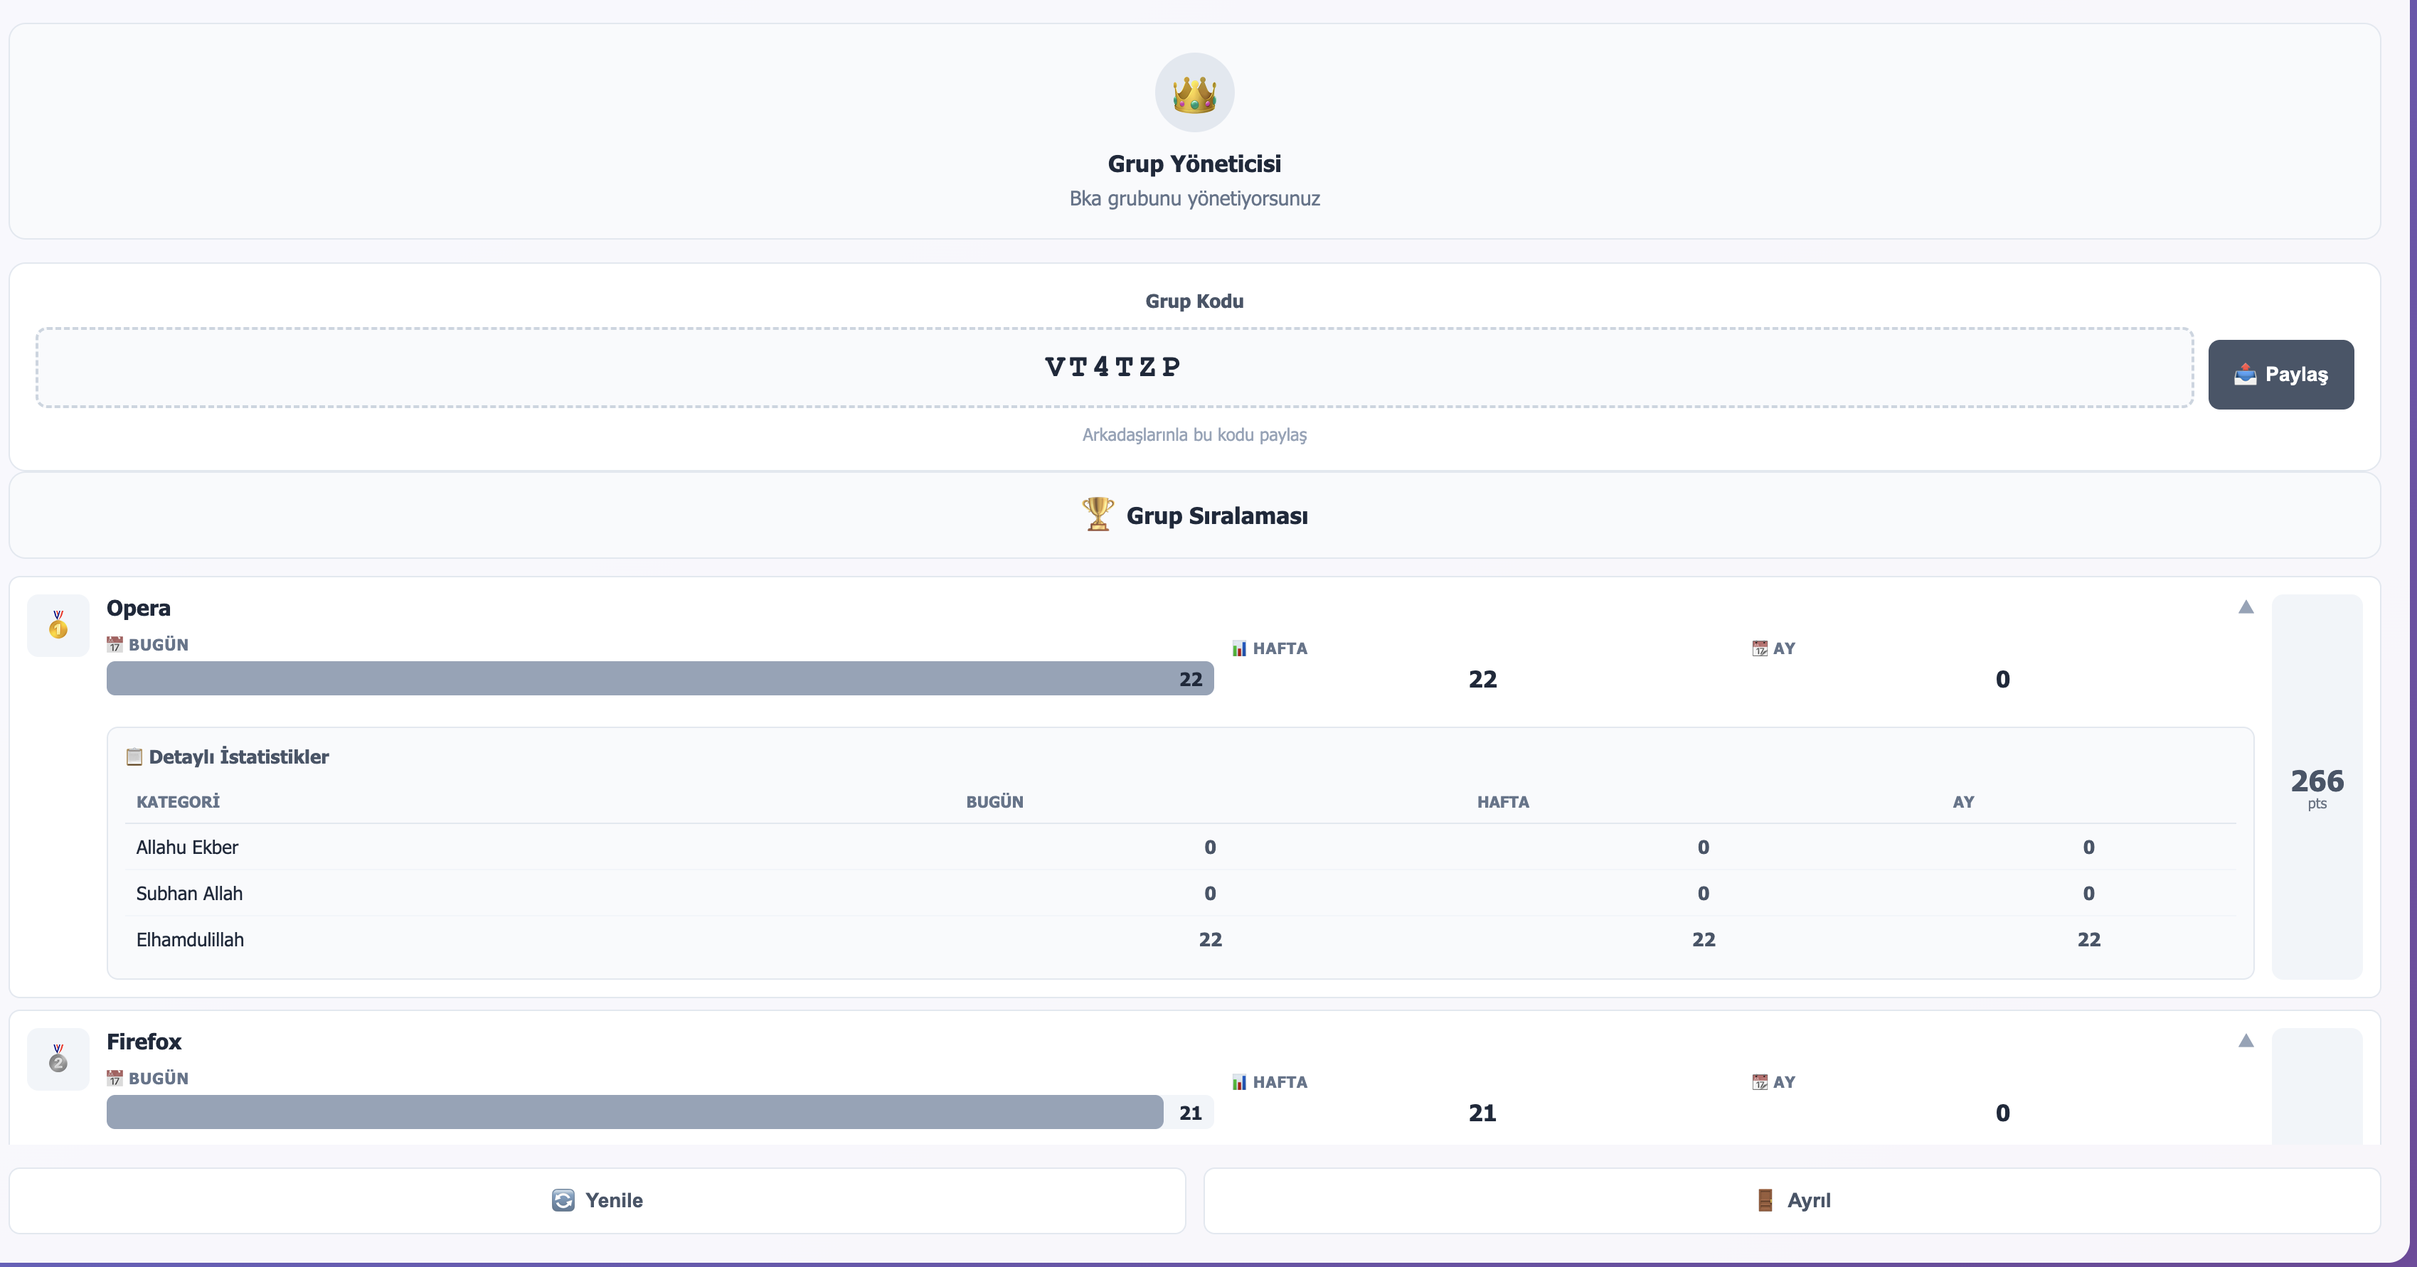
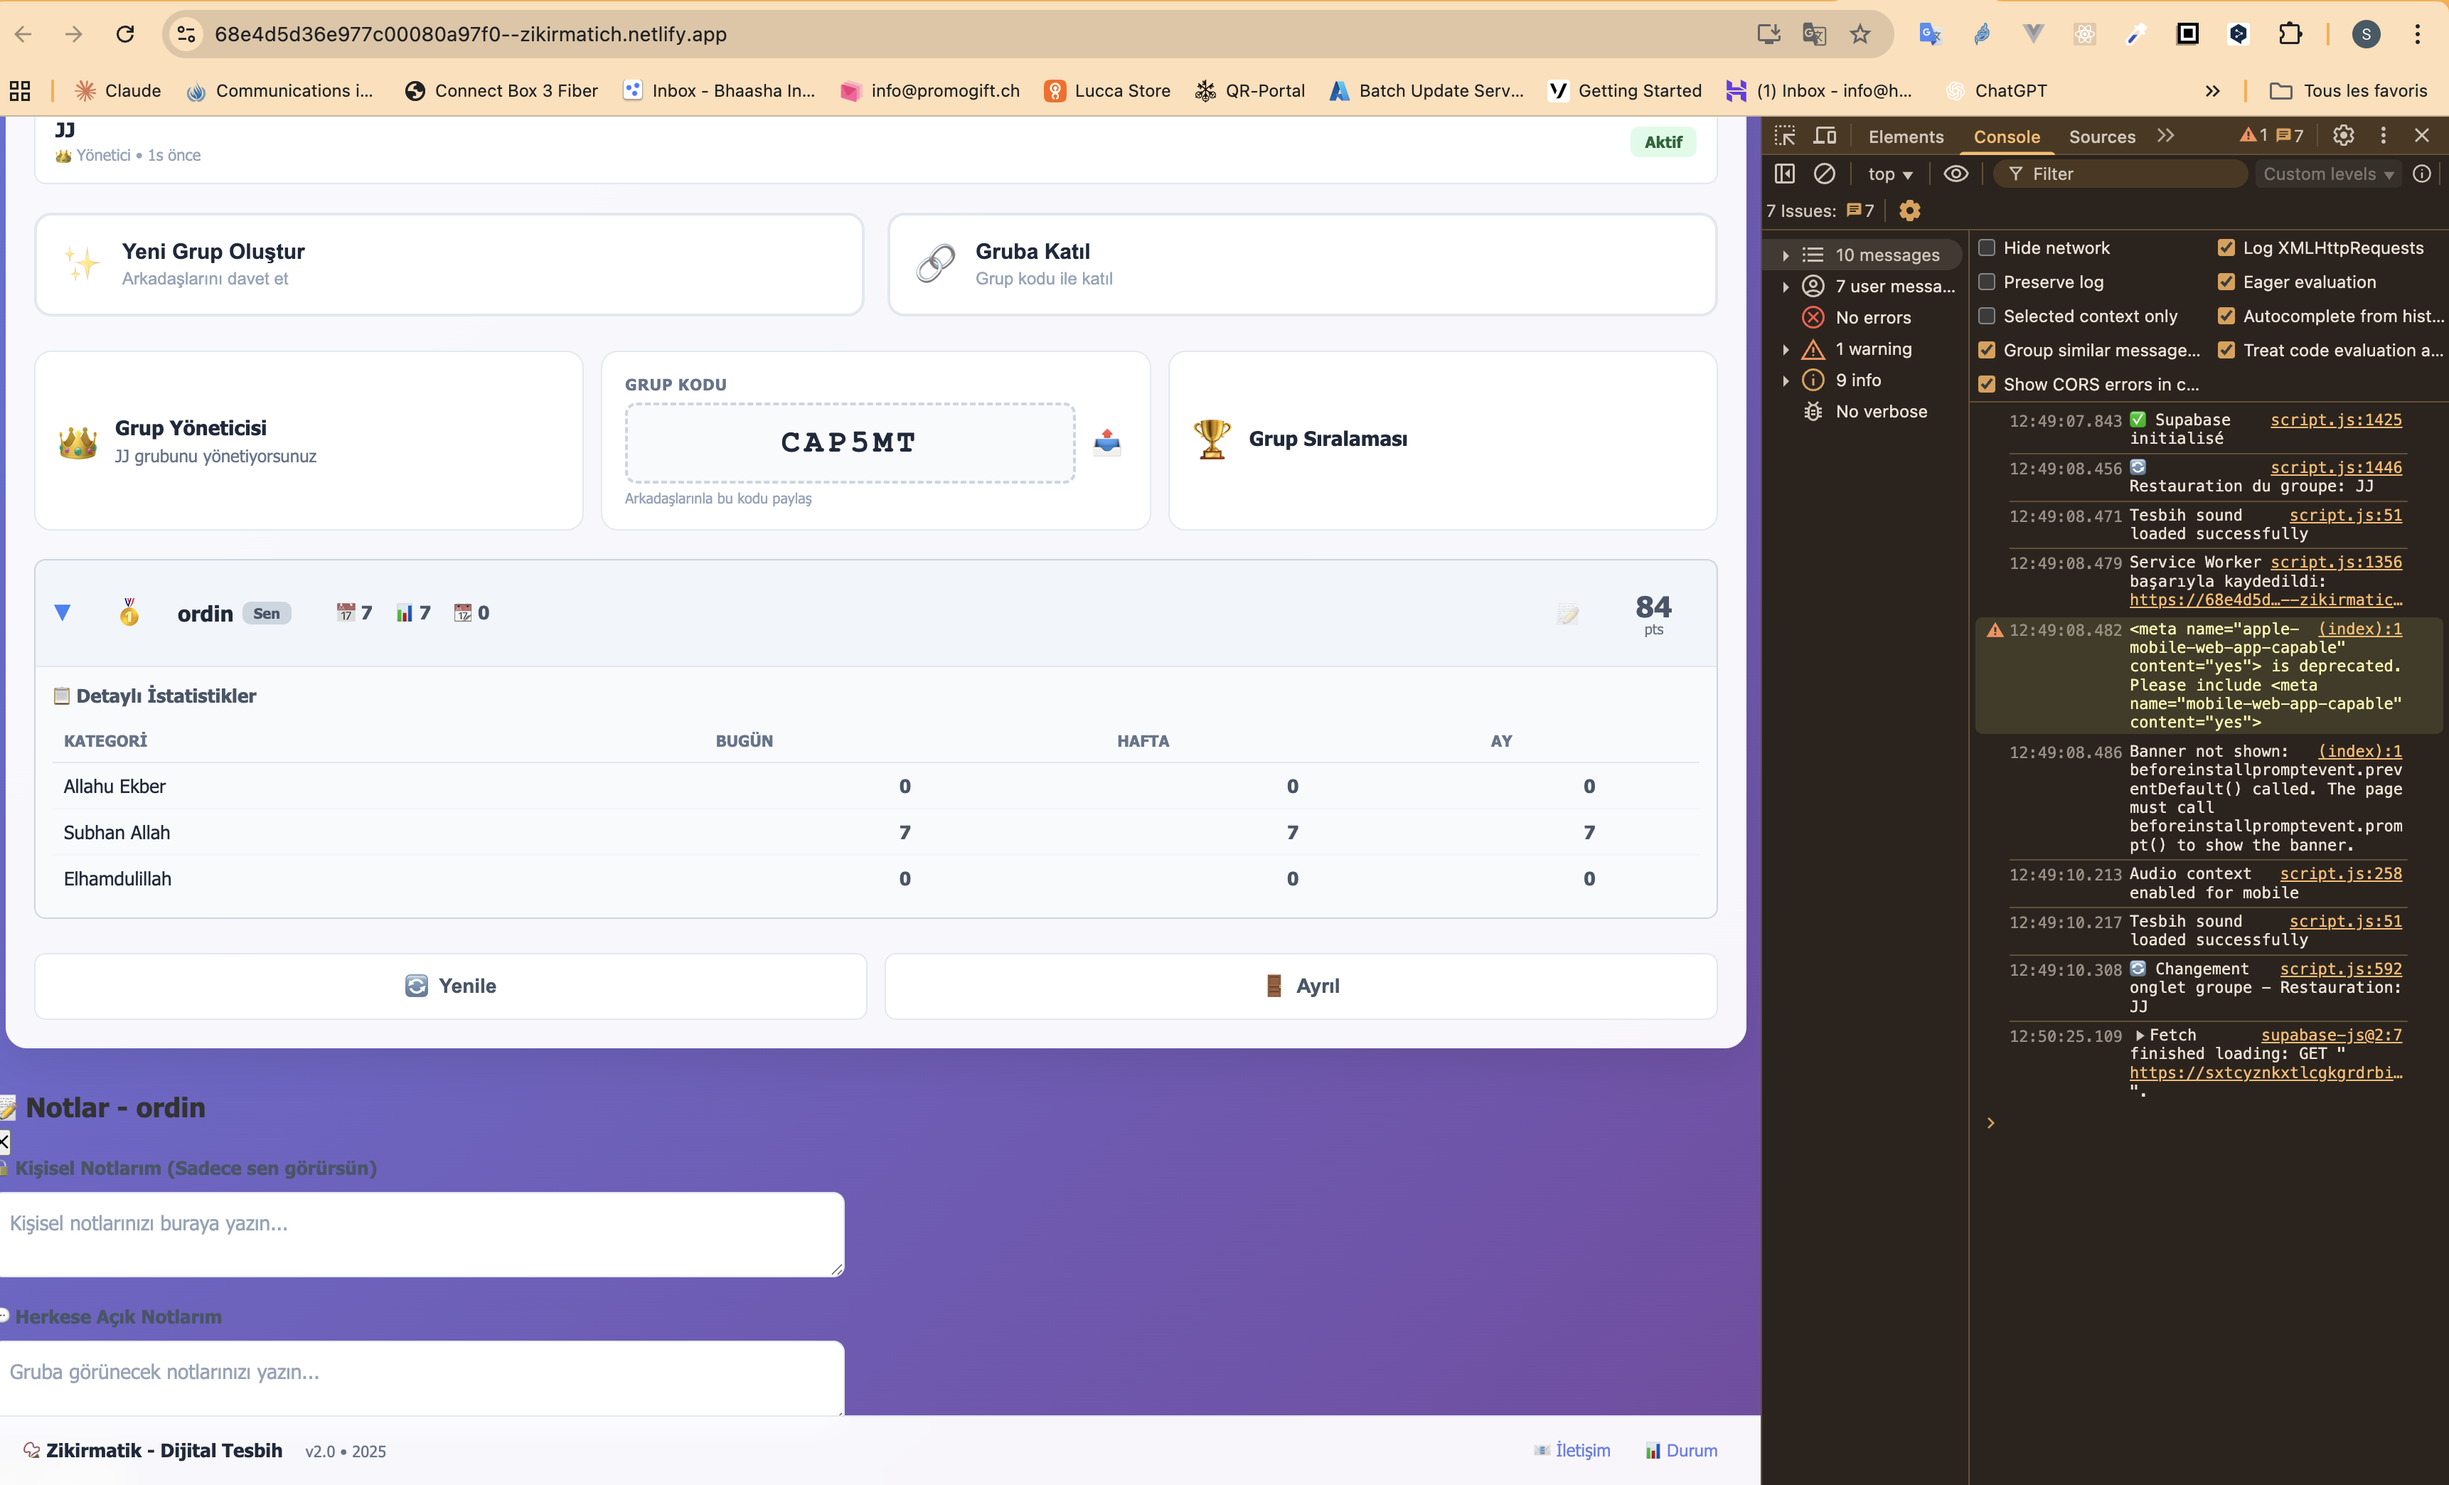
feat: Add category notes in group participant details v2.3
📝 New Feature: Notes per Category in Groups
- Add "Not" column in participant detail table (when expanded with ▶)
- Each category can have notes from any participant
- Notes visible by all group members

🎨 UI:
- 📝 Blue icon in rightmost column of detail stats
- Click to add/edit your note for that category
- Modal shows:
  ✍ Your note (editable)
  💬 Other participants' notes (read-only)

💾 Database:
- New table: category_notes
- Fields: group_id, participant_id, category, note
- UNIQUE constraint on (group_id, participant_id, category)
- Auto-update timestamp trigger

🔧 Features:
- Upsert logic (insert or update)
- Delete note if empty
- Show all participants' notes for same category
- z-index: 10000 for modal (above footer)

Use case:
"Subhan Allah" category:
- Opera: "Allah rızası için"
- Firefox: "Şifa duası"
- Sünbül: "Aile için dua"

Cache: v2.3.0

Migration required:
Run migration-add-category-notes.sql in Supabase

🤖 Generated with [Claude Code](https://claude.com/claude-code)

diff --git a/script_group.js b/script_group.js
@@ -207,8 +207,11 @@ function displayLeaderboard(participants) {
     else medal = position
 
     const hasNotes = participant.notes || participant.public_notes
-    const notesIcon = hasNotes ? '📝' : '📝'
     const notesOpacity = hasNotes ? '1' : '0.3'
+    const notesIcon = `<svg width="18" height="18" viewBox="0 0 24 24" fill="none" stroke="currentColor" stroke-width="2">
+      <path d="M11 4H4a2 2 0 0 0-2 2v14a2 2 0 0 0 2 2h14a2 2 0 0 0 2-2v-7"></path>
+      <path d="M18.5 2.5a2.121 2.121 0 0 1 3 3L12 15l-4 1 1-4 9.5-9.5z"></path>
+    </svg>`
 
     html += `
       <div class="participant-card ${isMe ? 'my-card' : ''}">
@@ -288,8 +291,11 @@ async function loadParticipantDetailedStats(participantId, container) {
     let html = '<div class="detail-stats-table">'
     html += '<div class="detail-header">📋 Detaylı İstatistikler</div>'
     html += '<table class="stats-breakdown-table">'
-    html += '<thead><tr><th>Kategori</th><th>Bugün</th><th>Hafta</th><th>Ay</th></tr></thead>'
+    html += '<thead><tr><th>Kategori</th><th>Bugün</th><th>Hafta</th><th>Ay</th><th style="width: 50px;">Not</th></tr></thead>'
     html += '<tbody>'
+
+    const groupInfo = groupManager.getCurrentGroup()
+    const groupId = groupInfo?.group?.id
 
     for (const [category, stats] of Object.entries(detailedStats)) {
       html += `
@@ -298,6 +304,14 @@ async function loadParticipantDetailedStats(participantId, container) {
           <td class="stat-num">${stats.today || 0}</td>
           <td class="stat-num">${stats.week || 0}</td>
           <td class="stat-num">${stats.month || 0}</td>
+          <td style="text-align: center;">
+            <button class="category-note-btn-small"
+              onclick="showGroupCategoryNoteModal('${groupId}', '${participantId}', '${category.replace(/'/g, "\\'")}', event)"
+              style="color: #3b82f6;"
+              title="Not ekle/görüntüle">
+              📝
+            </button>
+          </td>
         </tr>
       `
     }
@@ -711,6 +725,119 @@ async function saveNotes(participantId) {
     await updateLeaderboard()
   } catch (error) {
     console.error('Erreur sauvegarde notes:', error)
+    showCustomAlert('❌ Kaydetme hatası', 'error', 3000)
+  }
+}
+
+// ============================================
+// NOTES DE CATÉGORIE (GROUPE)
+// ============================================
+
+// Afficher le modal pour ajouter/modifier une note de catégorie
+async function showGroupCategoryNoteModal(groupId, participantId, category, event) {
+  if (event) event.stopPropagation()
+
+  try {
+    // Récupérer toutes les notes existantes pour cette catégorie dans ce groupe
+    const { data: notes, error } = await groupManager.provider.supabase
+      .from('category_notes')
+      .select('*, participants(name)')
+      .eq('group_id', groupId)
+      .eq('category', category)
+
+    if (error) throw error
+
+    // Trouver la note du participant actuel
+    const myNote = notes?.find(n => n.participant_id === participantId)
+
+    // Créer la liste des notes des autres
+    const otherNotes = notes?.filter(n => n.participant_id !== participantId) || []
+
+    const html = `
+      <div class="custom-modal-overlay" id="categoryNoteModal" style="z-index: 10000;">
+        <div class="custom-modal" style="max-width: 600px;">
+          <div class="modal-header">
+            <h3>📝 ${category} - Notlar</h3>
+            <button class="modal-close" onclick="document.getElementById('categoryNoteModal').remove()">✕</button>
+          </div>
+          <div class="modal-body">
+            <!-- Ma note -->
+            <div class="notes-section">
+              <label class="notes-label">✍ Notunuz</label>
+              <textarea id="myGroupCategoryNote" class="notes-textarea"
+                placeholder="Bu kategori için notunuzu yazın (herkes görecek)..."
+                style="min-height: 80px;">${myNote?.note || ''}</textarea>
+            </div>
+
+            <!-- Notes des autres -->
+            ${otherNotes.length > 0 ? `
+              <div class="notes-section" style="margin-top: 20px;">
+                <label class="notes-label">💬 Diğer Notlar</label>
+                <div class="other-notes-list">
+                  ${otherNotes.map(note => `
+                    <div class="other-note-item">
+                      <strong>${note.participants.name}:</strong>
+                      <p>${note.note}</p>
+                    </div>
+                  `).join('')}
+                </div>
+              </div>
+            ` : ''}
+          </div>
+          <div class="modal-footer">
+            <button class="btn-secondary" onclick="document.getElementById('categoryNoteModal').remove()">İptal</button>
+            <button class="btn-primary" onclick="saveGroupCategoryNote('${groupId}', '${participantId}', '${category.replace(/'/g, "\\'")}')">💾 Kaydet</button>
+          </div>
+        </div>
+      </div>
+    `
+
+    document.body.insertAdjacentHTML('beforeend', html)
+
+    // Auto-expand textarea
+    const textarea = document.getElementById('myGroupCategoryNote')
+    autoExpandTextarea(textarea)
+    textarea.addEventListener('input', () => autoExpandTextarea(textarea))
+    textarea.focus()
+  } catch (error) {
+    console.error('Erreur chargement notes catégorie:', error)
+    showCustomAlert('❌ Notlar yüklenemedi', 'error', 3000)
+  }
+}
+
+// Sauvegarder une note de catégorie
+async function saveGroupCategoryNote(groupId, participantId, category) {
+  const note = document.getElementById('myGroupCategoryNote').value.trim()
+
+  try {
+    if (note) {
+      // Insérer ou mettre à jour la note
+      const { error } = await groupManager.provider.supabase
+        .from('category_notes')
+        .upsert({
+          group_id: groupId,
+          participant_id: participantId,
+          category: category,
+          note: note
+        }, {
+          onConflict: 'group_id,participant_id,category'
+        })
+
+      if (error) throw error
+    } else {
+      // Supprimer la note si vide
+      await groupManager.provider.supabase
+        .from('category_notes')
+        .delete()
+        .eq('group_id', groupId)
+        .eq('participant_id', participantId)
+        .eq('category', category)
+    }
+
+    document.getElementById('categoryNoteModal').remove()
+    showCustomAlert('✅ Not kaydedildi!', 'success', 2000)
+  } catch (error) {
+    console.error('Erreur sauvegarde note catégorie:', error)
     showCustomAlert('❌ Kaydetme hatası', 'error', 3000)
   }
 }

diff --git a/styles.css b/styles.css
@@ -2149,3 +2149,53 @@ body {
 .category-note-btn:hover {
     transform: scale(1.2);
 }
+
+/* Category note button in detail table */
+.category-note-btn-small {
+    background: transparent;
+    border: none;
+    font-size: 16px;
+    cursor: pointer;
+    padding: 4px;
+    transition: all 0.2s;
+}
+
+.category-note-btn-small:hover {
+    transform: scale(1.3);
+}
+
+/* Other notes display */
+.other-notes-list {
+    display: flex;
+    flex-direction: column;
+    gap: 12px;
+}
+
+.other-note-item {
+    background: #f8fafc;
+    padding: 12px;
+    border-radius: 8px;
+    border-left: 3px solid #3b82f6;
+}
+
+.other-note-item strong {
+    color: #475569;
+    font-size: 13px;
+}
+
+.other-note-item p {
+    margin: 6px 0 0 0;
+    color: #1e293b;
+    font-size: 14px;
+    line-height: 1.5;
+}
+
+/* Fix modal z-index */
+.custom-modal-overlay {
+    position: fixed;
+    top: 0;
+    left: 0;
+    right: 0;
+    bottom: 0;
+    z-index: 10000;
+}

diff --git a/sw.js b/sw.js
@@ -1,4 +1,4 @@
-const CACHE_NAME = 'zikirmatik-v2.2.0';
+const CACHE_NAME = 'zikirmatik-v2.3.0';
 const urlsToCache = [
   './',
   './index.html',
